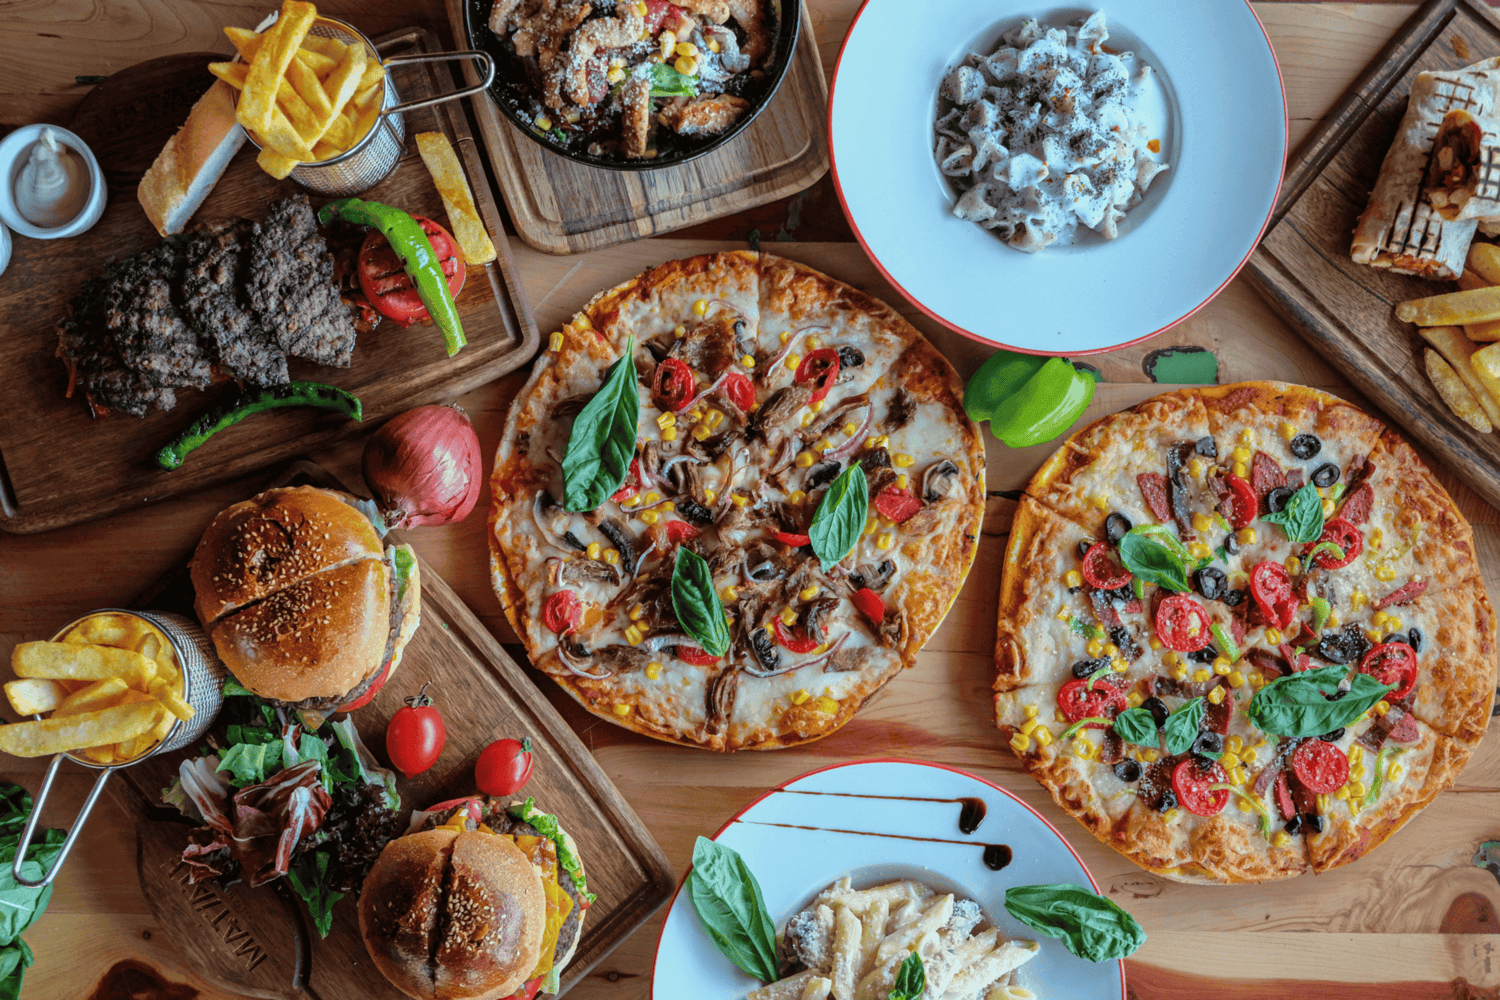
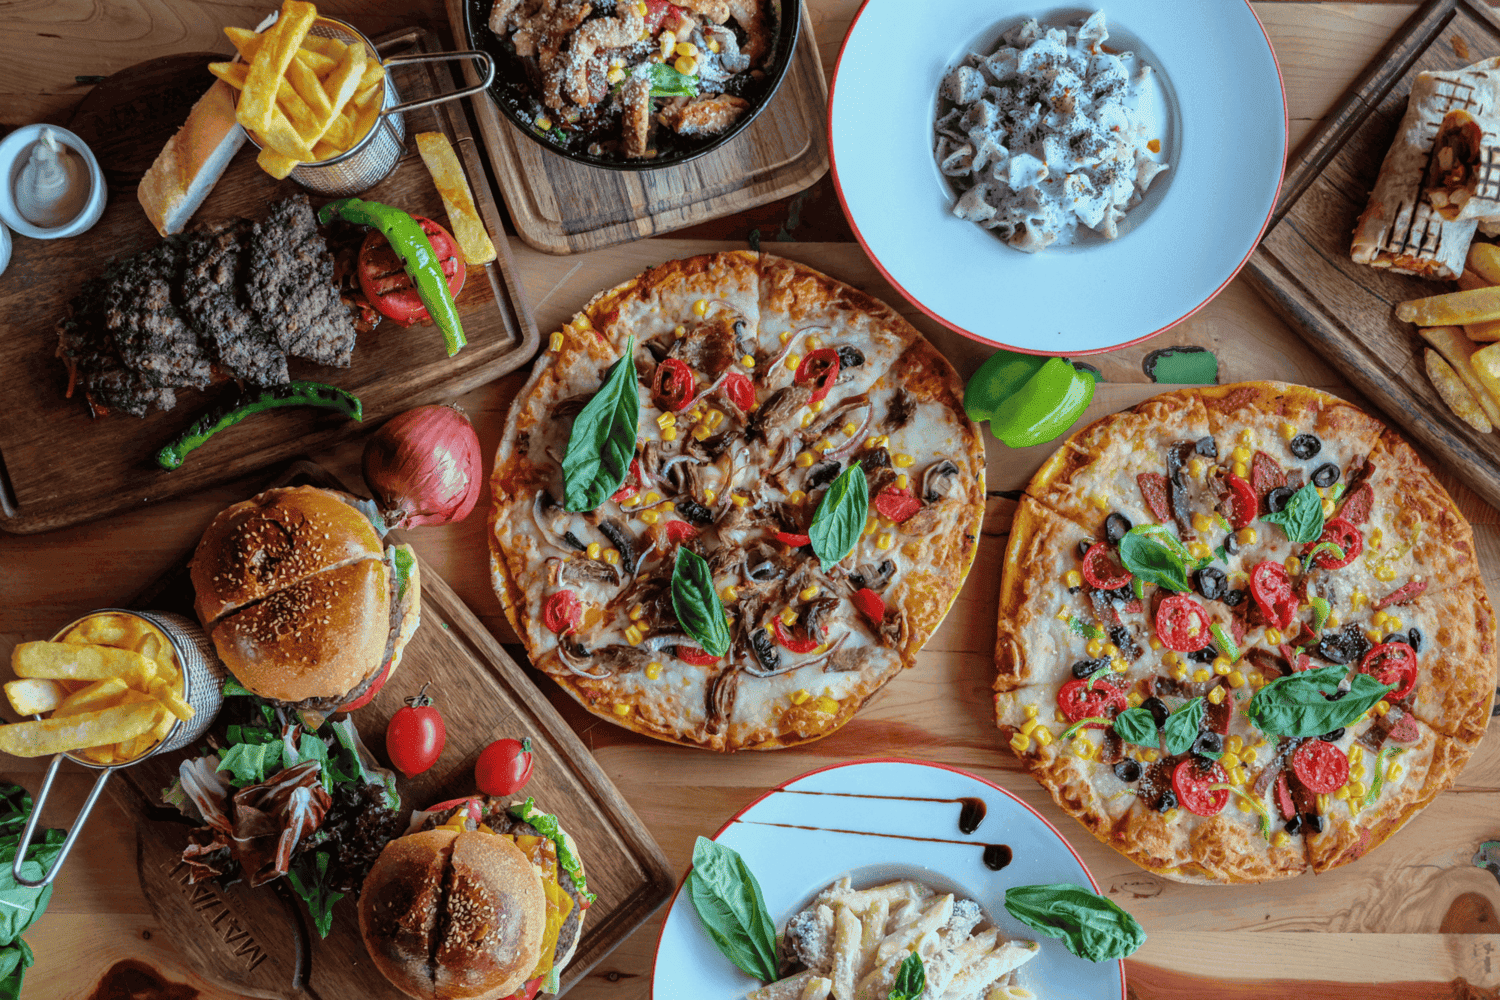
clean js

diff --git a/script.js b/script.js
@@ -82,15 +82,15 @@ function renderFooter() {
     footerRef.innerHTML = getFooterTemplate();
 }
 
-function getMenuFromCard(indexMenus, indexItem, category) {         // returned Menu-object mit variablem Abgleich der category
+function getDishFromCard(indexMenus, indexItem, category) {         // Returns the object with variable category matching.
     return menuList[indexMenus][category][indexItem];
 }
 
-function addMenuToBasket(indexMenus, indexItem, category) {
-    let menuObject = getMenuFromCard(indexMenus, indexItem, category);
+function addDishToBasket(indexMenus, indexItem, category) {
+    let menuObject = getDishFromCard(indexMenus, indexItem, category);
     let basketIndex = getBasketListIndex(menuObject);
     if (basketIndex == -1) {
-        pushObjectToBasket(menuObject, indexMenus, indexItem);
+        pushObjectToBasketList(menuObject, indexMenus, indexItem);
     }
     else {
         increaseAmountInBasket(menuObject, basketIndex, indexMenus, indexItem);
@@ -99,8 +99,8 @@ function addMenuToBasket(indexMenus, indexItem, category) {
     renderFooter();
 }
 
-function pushObjectToBasket(menuObject, indexMenus, indexItem) {
-    let newMenuObject = {
+function pushObjectToBasketList(menuObject, indexMenus, indexItem) {
+    let newDishObject = {
         "name": menuObject.name,
         "price": menuObject.price,
         "basePrice": menuObject.price,
@@ -108,7 +108,7 @@ function pushObjectToBasket(menuObject, indexMenus, indexItem) {
         "menuIndex": indexMenus,
         "itemIndex": indexItem
     }
-    basketList.push(newMenuObject);
+    basketList.push(newDishObject);
     basketIndex = basketList.length - 1;
     switchAddButton(basketIndex, indexMenus, indexItem);
 }
@@ -126,9 +126,9 @@ function switchAddButton(basketIndex, indexMenus, indexItem) {
 }
 
 function getBasketListIndex(menuObject) {
-    let i = basketList.findIndex(item => item.name === menuObject.name);  // Sucht im basket nach einem object, 
-    if (i >= 0) {                                                         // dass genauso heißt wie das geklickte
-        return i;
+    let i = basketList.findIndex(item => item.name === menuObject.name);  // Searches basket array for an object 
+    if (i >= 0) {                                                         // with the exact same name as clicked
+        return i;                                                         // and returns index if found
     }
     else {
         return "-1";
@@ -189,8 +189,7 @@ function orderDialogReceived() {
     basketRef.innerHTML = "";
     basketRef.innerHTML += getOrderDialogReceivedTemplate();
     basketList.length = 0;
-    renderMenus();
-    renderFooter();
+    orderReceived();
 }
 
 function openDialogBasket() {
@@ -213,7 +212,6 @@ function closeDialogBasket() {
 // To do:
 
 // optional: Lieferkosten ab 50€ frei
-// JS kommentieren
 // Seite prüfen
 
 

diff --git a/scripts/templates.js b/scripts/templates.js
@@ -10,7 +10,7 @@ function getBurgerTemplate(indexMenus, indexBurgers){
             </div>
             <div class="menu_price">
                 <p>${new Intl.NumberFormat('de-DE', { style: 'currency', currency: 'EUR' }).format(menuList[indexMenus].burger[indexBurgers].price)}</p>
-                <button onclick="addMenuToBasket(${indexMenus}, ${indexBurgers}, 'burger')" id="button_to_basket_${indexMenus}_${indexBurgers}" class="add_basket_btn">Add to basket</button>
+                <button onclick="addDishToBasket(${indexMenus}, ${indexBurgers}, 'burger')" id="button_to_basket_${indexMenus}_${indexBurgers}" class="add_basket_btn">Add to basket</button>
             </div>
         </section>
     `
@@ -28,7 +28,7 @@ function getPizzaTemplate(indexMenus, indexPizza){
             </div>
             <div class="menu_price">
                 <p>${new Intl.NumberFormat('de-DE', { style: 'currency', currency: 'EUR' }).format(menuList[indexMenus].pizza[indexPizza].price)}</p>
-                <button onclick="addMenuToBasket(${indexMenus}, ${indexPizza}, 'pizza')" id="button_to_basket_${indexMenus}_${indexPizza}" class="add_basket_btn">Add to basket</button>
+                <button onclick="addDishToBasket(${indexMenus}, ${indexPizza}, 'pizza')" id="button_to_basket_${indexMenus}_${indexPizza}" class="add_basket_btn">Add to basket</button>
             </div>
         </section>
     `
@@ -46,7 +46,7 @@ function getSaladTemplate(indexMenus, indexSalad){
             </div>
             <div class="menu_price">
                 <p>${new Intl.NumberFormat('de-DE', { style: 'currency', currency: 'EUR' }).format(menuList[indexMenus].salad[indexSalad].price)}</p>
-                <button onclick="addMenuToBasket(${indexMenus}, ${indexSalad}, 'salad')" id="button_to_basket_${indexMenus}_${indexSalad}" class="add_basket_btn">Add to basket</button>
+                <button onclick="addDishToBasket(${indexMenus}, ${indexSalad}, 'salad')" id="button_to_basket_${indexMenus}_${indexSalad}" class="add_basket_btn">Add to basket</button>
             </div>
         </section>
     `